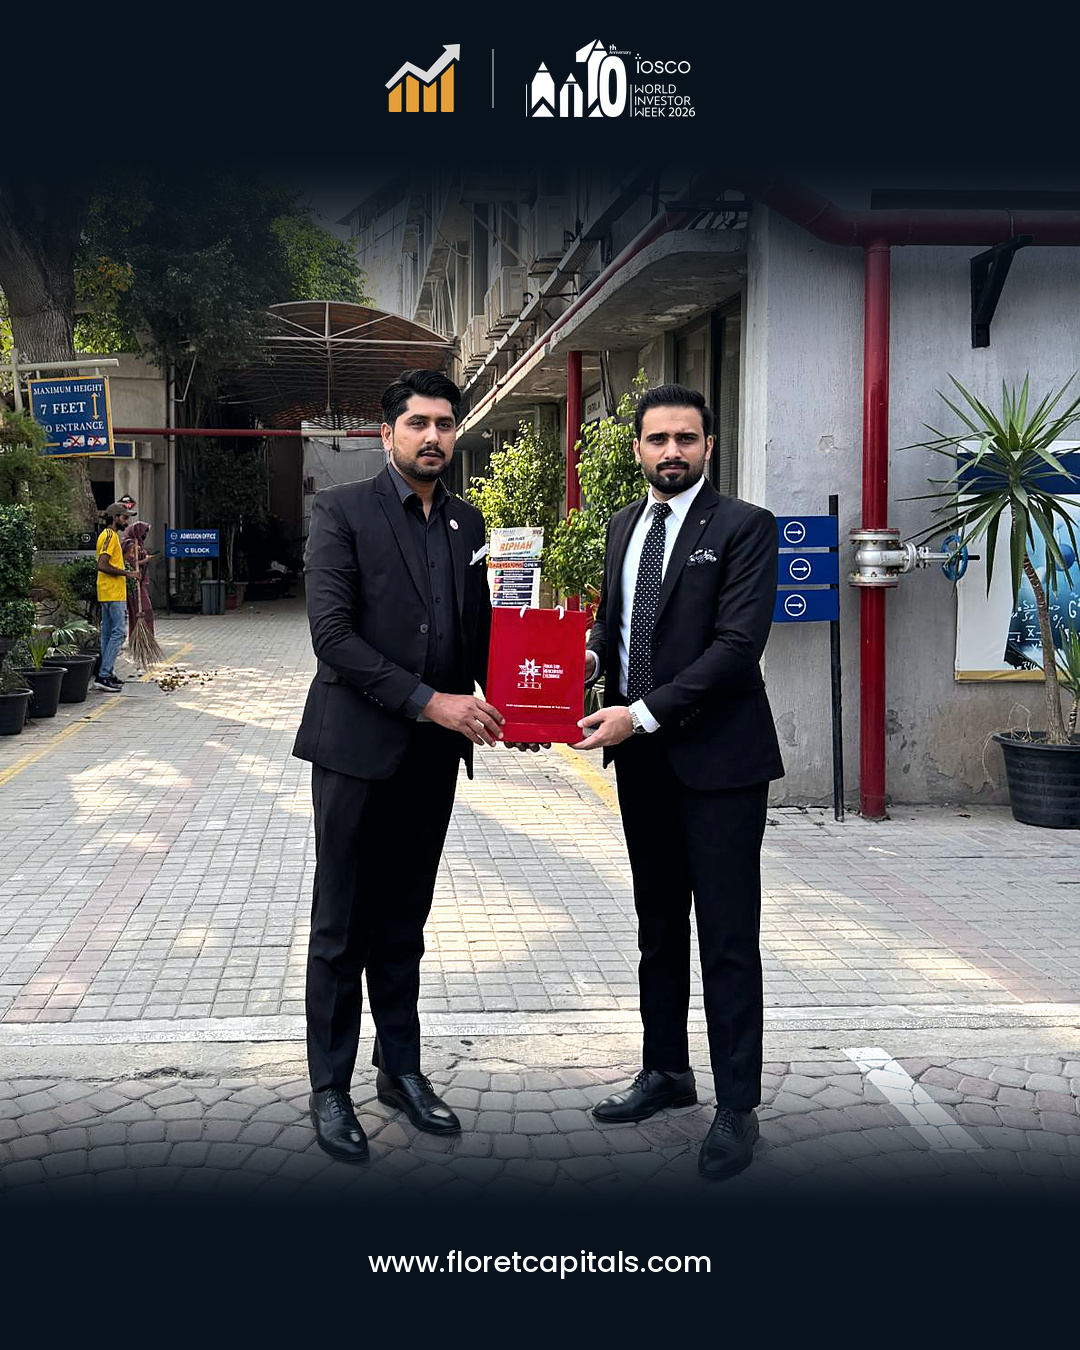
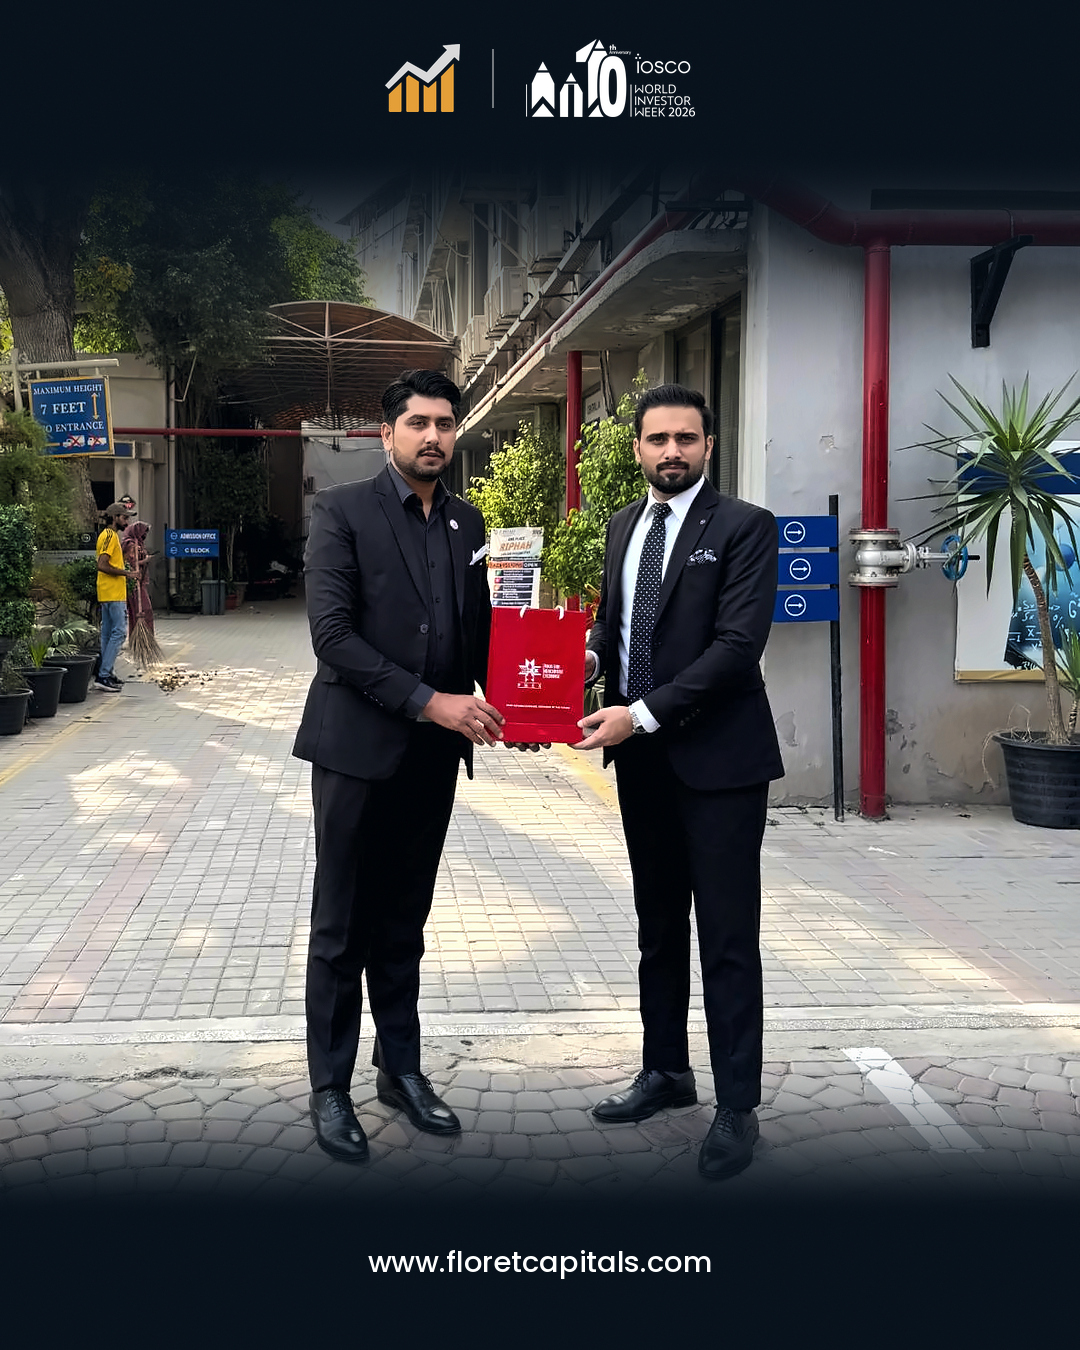
Riphah carousel: matched grade, noise reduction, skin smoothing, HQ export
- Non-local-means denoise sized to each photo's measured noise
- Auto white balance to one neutral and a shared black point instead of
  hand-set gains, so filtered and unfiltered shots match
- Exposure and saturation set from faces and skin, so brightness and skin
  saturation are the same on every slide
- Skin-only bilateral smoothing around listed and detected faces
- Lower clarity, thresholded sharpening, dithered fades, JPEG q98 4:4:4

Claude-Session: https://claude.ai/code/session_012KbG1rS37aTXVN9ktUXDpF

diff --git a/pipeline/riphah_photos.py b/pipeline/riphah_photos.py
@@ -16,6 +16,7 @@ nobody looks brighter or darker from slide to slide.
 import os
 import sys
 
+import cv2
 import numpy as np
 from PIL import Image, ImageDraw, ImageFilter, ImageFont
 
@@ -31,42 +32,40 @@ URL = "www.floretcapitals.com"
 WIN_TOP, WIN_BOT = 150, 1215
 FADE_TOP, FADE_BOT = 260, 170
 
-FACE_TARGET = 0.44  # mean sRGB value the faces are levelled to
+# Matching targets: every photo is pulled to the same white, black point,
+# face brightness and skin saturation, so the set reads as one grade.
+FACE_TARGET = 0.44             # mean sRGB value of the faces
+NEUTRAL_TARGET = (1.01, 1.0, 0.985)  # R:G:B of greys after WB (a touch warm)
+BLACK_TARGET = 0.012           # luma at the 0.5th percentile
+SKIN_CHROMA_TARGET = 0.235     # mean (max-min) chroma of lit skin (set median ~0.245)
 
 # Per photo:
 #   x0, w   source columns shown across the 1080 px width (sets the scale)
 #   y0      source row that lands on the window top (negative when the photo is
 #           shorter than the window; the gap is filled by extend())
 #   faces   source boxes (x0, y0, x1, y1) metered for levelling
-#   wb      RGB gains removing the colour cast
 PHOTOS = {
     "1": dict(name="handover", x0=312, w=1188, y0=530,
-              faces=[(750, 800, 820, 890), (1010, 810, 1090, 900)],
-              wb=(0.99, 1.0, 1.03)),
+              faces=[(750, 800, 820, 890), (1010, 810, 1090, 900)]),
     "2": dict(name="souvenir", x0=0, w=1240, y0=740,
-              faces=[(380, 1000, 470, 1110), (590, 990, 670, 1100), (810, 990, 890, 1110)],
-              wb=(0.99, 1.0, 1.02)),
+              faces=[(380, 1000, 470, 1110), (590, 990, 670, 1100), (810, 990, 890, 1110)]),
     "3": dict(name="trading_instruments", x0=110, w=1320, y0=6,
-              faces=[(410, 550, 550, 710)], wb=(0.95, 1.0, 1.06)),
+              faces=[(410, 550, 550, 710)]),
     "4": dict(name="floret_intro", x0=150, w=1500, y0=0,
-              faces=[(440, 520, 560, 700)], wb=(0.96, 1.0, 1.05)),
+              faces=[(440, 520, 560, 700)]),
     "5": dict(name="group", x0=75, w=1900, y0=-225,
-              faces=[(770, 680, 820, 750), (910, 660, 970, 740), (1570, 660, 1620, 740)],
-              wb=(1.0, 1.0, 1.02)),
+              faces=[(770, 680, 820, 750), (910, 660, 970, 740), (1570, 660, 1620, 740)]),
     # Second batch (source files 9-13).
     "6": dict(name="margin_trading", file="9.jpg", x0=0, w=1500, y0=47,
-              faces=[(350, 720, 410, 820)], wb=(0.96, 1.0, 1.05)),
+              faces=[(350, 720, 410, 820)]),
     "7": dict(name="classroom", file="10.jpg", x0=200, w=1521, y0=0,
-              faces=[(1530, 390, 1600, 470), (460, 570, 580, 700), (720, 560, 820, 660)],
-              wb=(0.97, 1.0, 1.04)),
+              faces=[(1530, 390, 1600, 470), (460, 570, 580, 700), (720, 560, 820, 660)]),
     "8": dict(name="presenter", file="11.jpg", x0=275, w=1300, y0=123,
-              faces=[(790, 520, 940, 700)], wb=(0.98, 1.0, 1.03)),
+              faces=[(790, 520, 940, 700)]),
     "9": dict(name="box_handover", file="12.jpg", x0=20, w=1350, y0=222,
-              faces=[(330, 600, 430, 720), (570, 600, 670, 720), (980, 700, 1080, 820)],
-              wb=(0.99, 1.0, 1.03)),
+              faces=[(330, 600, 430, 720), (570, 600, 670, 720), (980, 700, 1080, 820)]),
     "10": dict(name="pmex_bag", file="13.jpg", x0=0, w=1070, y0=523,
-               faces=[(350, 810, 430, 920), (710, 840, 790, 950)],
-               wb=(0.99, 1.0, 1.02)),
+               faces=[(350, 810, 430, 920), (710, 840, 790, 950)]),
 }
 
 # Cover background: the group photo at the Riphah gate, full width (the group is
@@ -74,13 +73,12 @@ PHOTOS = {
 # are out. It sits under the logo band with the same soft top edge; the title
 # panel overlaps from the knees.
 COVER = dict(file="8.jpg", x0=0, w=1280, y0=262, top=265, top_fade=150, dim=0.72,
-             faces=[(493, 435, 525, 480), (582, 422, 621, 474), (1005, 422, 1037, 474)],
-             wb=(1.0, 1.0, 1.02), panel=(56, 715, 1024, 1075))
+             faces=[(493, 435, 525, 480), (582, 422, 621, 474), (1005, 422, 1037, 474)], panel=(56, 715, 1024, 1075))
 
 # Shared look (same for every photo).
-LOOK = dict(highlights=0.5, shadows=0.10, contrast=0.12, clarity=0.10,
-            saturation=-0.08, vibrance=0.06, shadow_tint=(-0.010, 0.002, 0.016),
-            sharpen=0.5)
+LOOK = dict(highlights=0.5, shadows=0.10, contrast=0.12, clarity=0.06,
+            saturation=-0.04, vibrance=0.06, shadow_tint=(-0.010, 0.002, 0.016),
+            skin_smooth=0.65)
 
 
 # ---------------------------------------------------------------- colour
@@ -126,9 +124,12 @@ def tone(L):
     return np.clip(s + LOOK["contrast"] * (s - 0.5) * (1 - np.abs(2 * s - 1)) * 1.2, 0, 1)
 
 
-def grade(src, wb, exposure):
+def grade(src, wb, exposure, sat=1.0):
     lin = srgb_to_lin(src) * np.array(wb, np.float32) * (2 ** exposure)
     a = lin_to_srgb(lin)
+    # Same black point for every photo (filtered phone shots come in faded).
+    bp = float(np.percentile(luma(a[::6, ::6]), 0.5))
+    a = np.clip((a - bp) / (1 - bp), 0, 1) * (1 - BLACK_TARGET) + BLACK_TARGET
 
     L = luma(a)
     L2 = tone(L)
@@ -139,7 +140,7 @@ def grade(src, wb, exposure):
     L = luma(a)[..., None]
     chroma = a.max(-1, keepdims=True) - a.min(-1, keepdims=True)
     vib = LOOK["vibrance"] * (1 - np.clip(chroma * 1.6, 0, 1))
-    a = L + (a - L) * (1 + LOOK["saturation"] + vib)
+    a = L + (a - L) * (1 + LOOK["saturation"] + vib) * sat
     # Cool the shadows slightly so the photo sits in the navy template.
     a = a + np.array(LOOK["shadow_tint"], np.float32) * (1 - L) ** 2
     return np.clip(a, 0, 1)
@@ -149,18 +150,84 @@ def face_level(a, faces):
     return float(np.mean([a[y0:y1, x0:x1].mean() for x0, y0, x1, y1 in faces]))
 
 
+def denoise(rgb8):
+    """Non-local-means denoise, strength set from the photo's measured noise."""
+    gray = cv2.cvtColor(rgb8, cv2.COLOR_RGB2GRAY).astype(np.float32)
+    kern = np.array([[1, -2, 1], [-2, 4, -2], [1, -2, 1]], np.float32)
+    sigma = np.sqrt(np.pi / 2) / 6 * np.abs(cv2.filter2D(gray, -1, kern)).mean()
+    h = float(np.clip(sigma * 1.3, 2.0, 6.0))
+    out = cv2.fastNlMeansDenoisingColored(rgb8, None, h, h + 2, 7, 21)
+    return out, sigma
+
+
+def auto_wb(src):
+    """Gains that bring the photo's near-neutral midtones to NEUTRAL_TARGET."""
+    lin = srgb_to_lin(src[::4, ::4])
+    L = lin.mean(-1)
+    neutral = ((src[::4, ::4].max(-1) - src[::4, ::4].min(-1)) < 0.10) & (L > 0.05) & (L < 0.8)
+    m = lin[neutral].mean(0)
+    gains = np.array(NEUTRAL_TARGET, np.float32) / (m / m[1])
+    return 1 + (gains - 1) * 0.85
+
+
+def skin_chroma(a, faces):
+    vals = []
+    for x0, y0, x1, y1 in faces:
+        f = a[y0:y1, x0:x1].reshape(-1, 3)
+        lit = f[luma(f) > 0.3]
+        if len(lit):
+            vals.append((lit.max(-1) - lit.min(-1)).mean())
+    return float(np.mean(vals)) if vals else SKIN_CHROMA_TARGET
+
+
+FACE_CASCADE = cv2.CascadeClassifier(cv2.data.haarcascades + "haarcascade_frontalface_default.xml")
+
+
+def smooth_skin(rgb8, faces):
+    """Soften skin only: a skin-tone mask around each face (listed + detected),
+    bilateral-smoothed and blended back partly so natural texture stays."""
+    gray = cv2.cvtColor(rgb8, cv2.COLOR_RGB2GRAY)
+    found = FACE_CASCADE.detectMultiScale(gray, 1.1, 6, minSize=(36, 36))
+    boxes = list(faces) + [(x, y, x + w, y + h) for x, y, w, h in found]
+
+    ycc = cv2.cvtColor(rgb8, cv2.COLOR_RGB2YCrCb)
+    skin = ((ycc[..., 0] > 50) & (ycc[..., 1] >= 133) & (ycc[..., 1] <= 178) &
+            (ycc[..., 2] >= 77) & (ycc[..., 2] <= 130)).astype(np.float32)
+    mask = np.zeros(gray.shape, np.float32)
+    H_, W_ = gray.shape
+    for x0, y0, x1, y1 in boxes:
+        w, h = x1 - x0, y1 - y0
+        X0, X1 = max(0, int(x0 - 0.5 * w)), min(W_, int(x1 + 0.5 * w))
+        Y0, Y1 = max(0, int(y0 - 0.6 * h)), min(H_, int(y1 + 1.0 * h))
+        mask[Y0:Y1, X0:X1] = np.maximum(mask[Y0:Y1, X0:X1], skin[Y0:Y1, X0:X1])
+    mask = cv2.GaussianBlur(mask, (0, 0), 4)
+
+    smooth = cv2.bilateralFilter(rgb8, 0, 24, 5).astype(np.float32)
+    smooth = cv2.bilateralFilter(smooth.astype(np.uint8), 0, 18, 3).astype(np.float32)
+    k = (mask * LOOK["skin_smooth"])[..., None]
+    out = rgb8.astype(np.float32) * (1 - k) + smooth * k
+    return np.clip(out + 0.5, 0, 255).astype(np.uint8), len(found)
+
+
 def graded_photo(path, p):
-    src = np.asarray(Image.open(path).convert("RGB"), np.float32) / 255
-    ev = 0.0
-    for _ in range(4):  # meter the faces and settle on the exposure
-        a = grade(src, p["wb"], ev)
+    rgb8 = np.asarray(Image.open(path).convert("RGB"))
+    rgb8, noise = denoise(rgb8)
+    src = rgb8.astype(np.float32) / 255
+    wb = auto_wb(src)
+    ev, sat = 0.0, 1.0
+    for _ in range(5):  # meter faces and skin, settle exposure and saturation
+        a = grade(src, wb, ev, sat)
         step = np.log2(FACE_TARGET / face_level(a, p["faces"])) * 0.9
+        sat = float(np.clip(sat * SKIN_CHROMA_TARGET / skin_chroma(a, p["faces"]), 0.7, 1.25))
         if abs(step) < 0.01:
             break
-        ev = float(np.clip(ev + step, -0.6, 0.6))
-    a = grade(src, p["wb"], ev)
-    print(f"  {os.path.basename(path)}: exposure {ev:+.2f} EV, faces {face_level(a, p['faces']):.3f}")
-    return Image.fromarray((a * 255 + 0.5).astype(np.uint8))
+        ev = float(np.clip(ev + step, -0.7, 0.7))
+    a = grade(src, wb, ev, sat)
+    out, n_found = smooth_skin((a * 255 + 0.5).astype(np.uint8), p["faces"])
+    print(f"  {os.path.basename(path)}: noise {noise:.1f}, EV {ev:+.2f}, sat x{sat:.2f}, "
+          f"faces {face_level(a, p['faces']):.3f}, skin {skin_chroma(a, p['faces']):.3f}, "
+          f"+{n_found} detected")
+    return Image.fromarray(out)
 
 
 # ---------------------------------------------------------------- layout
@@ -234,8 +301,9 @@ def post(photo, p):
     layer.paste(big, (0, top))
     base = np.full((H, W, 3), NAVY, np.float32)
     out = base + (np.asarray(layer, np.float32) - base) * alpha[:, None, None]
+    out += np.random.default_rng(3).normal(0, 0.6, out.shape)  # dither: no banding in the fades
     img = Image.fromarray(np.clip(out + 0.5, 0, 255).astype(np.uint8))
-    img = img.filter(ImageFilter.UnsharpMask(radius=1.2, percent=int(LOOK["sharpen"] * 100), threshold=2))
+    img = img.filter(ImageFilter.UnsharpMask(radius=0.9, percent=45, threshold=4))
 
     img = img.convert("RGBA")
     lk = lockup(floret_h=68, wiw_h=78, gap=32, divider_h=58)
@@ -314,10 +382,10 @@ def main():
     for k, p in PHOTOS.items():
         graded[k] = graded_photo(os.path.join(src_dir, p.get("file", f"{k}.jpg")), p)
         dst = os.path.join(out_dir, f"post_{int(k):02d}_{p['name']}.jpg")
-        post(graded[k], p).save(dst, quality=95, subsampling=0, optimize=True)
+        post(graded[k], p).save(dst, quality=98, subsampling=0, optimize=True)
         print(dst)
     dst = os.path.join(out_dir, "post_00_cover.jpg")
-    cover(graded_photo(os.path.join(src_dir, COVER["file"]), COVER)).save(dst, quality=95, subsampling=0, optimize=True)
+    cover(graded_photo(os.path.join(src_dir, COVER["file"]), COVER)).save(dst, quality=98, subsampling=0, optimize=True)
     print(dst)
 
 

diff --git a/README.md b/README.md
@@ -52,6 +52,14 @@ Eleven 1080×1350 slides in [`riphah/`](riphah/), posted in filename order:
 - `post_00_cover.jpg`: title card ("World Investor Week 2026 at Riphah International University" plus the WIW 2026 tagline) over the group photo at the Riphah gate (dimmed into navy), with the Floret Capitals and WIW 2026 logos.
 - `post_01` … `post_10`: event photos in the Floret post template. A navy band at the top carries the Floret | WIW 2026 logo lockup, the photo fades into navy with the same top and bottom gradient on every slide, and the website sits at the bottom.
 
-The script is `pipeline/riphah_photos.py SRC_DIR` (SRC_DIR holds the event photos `1.jpg` … `5.jpg` and `9.jpg` … `13.jpg`, plus the cover photo `8.jpg`). It gives every photo one shared grade and then sets each photo's exposure so the faces meter to the same level. Crops centre the people horizontally. The wide group shot is continued with a blurred mirror of its own edges so its fades match the other slides.
+The script is `pipeline/riphah_photos.py SRC_DIR` (SRC_DIR holds the event photos `1.jpg` … `5.jpg` and `9.jpg` … `13.jpg`, plus the cover photo `8.jpg`). Every photo is processed the same way:
+
+1. Non-local-means noise reduction, with the strength set from each photo's measured noise.
+2. Auto white balance to one slightly warm neutral, and one shared black point.
+3. One shared tone and colour look.
+4. Exposure and saturation set so faces meter to the same brightness and skin to the same saturation.
+5. Skin-only smoothing: a skin-tone mask around listed and detected faces, bilateral-filtered and partly blended back so texture remains.
+
+Slides are exported as 1080×1350 JPEG at quality 98 with 4:4:4 chroma, with gentle thresholded sharpening and a fine dither so the navy fades don't band. Crops centre the people horizontally. The wide group shot is continued with a blurred mirror of its own edges so its fades match the other slides. Needs `opencv-python-headless`.
 
 Assets in `riphah/assets/`: Floret logo, the official white WIW 2026 logo (from the IOSCO WIW 2026 campaign toolkit at worldinvestorweek.org), and the Poppins and Anton fonts (SIL OFL).
